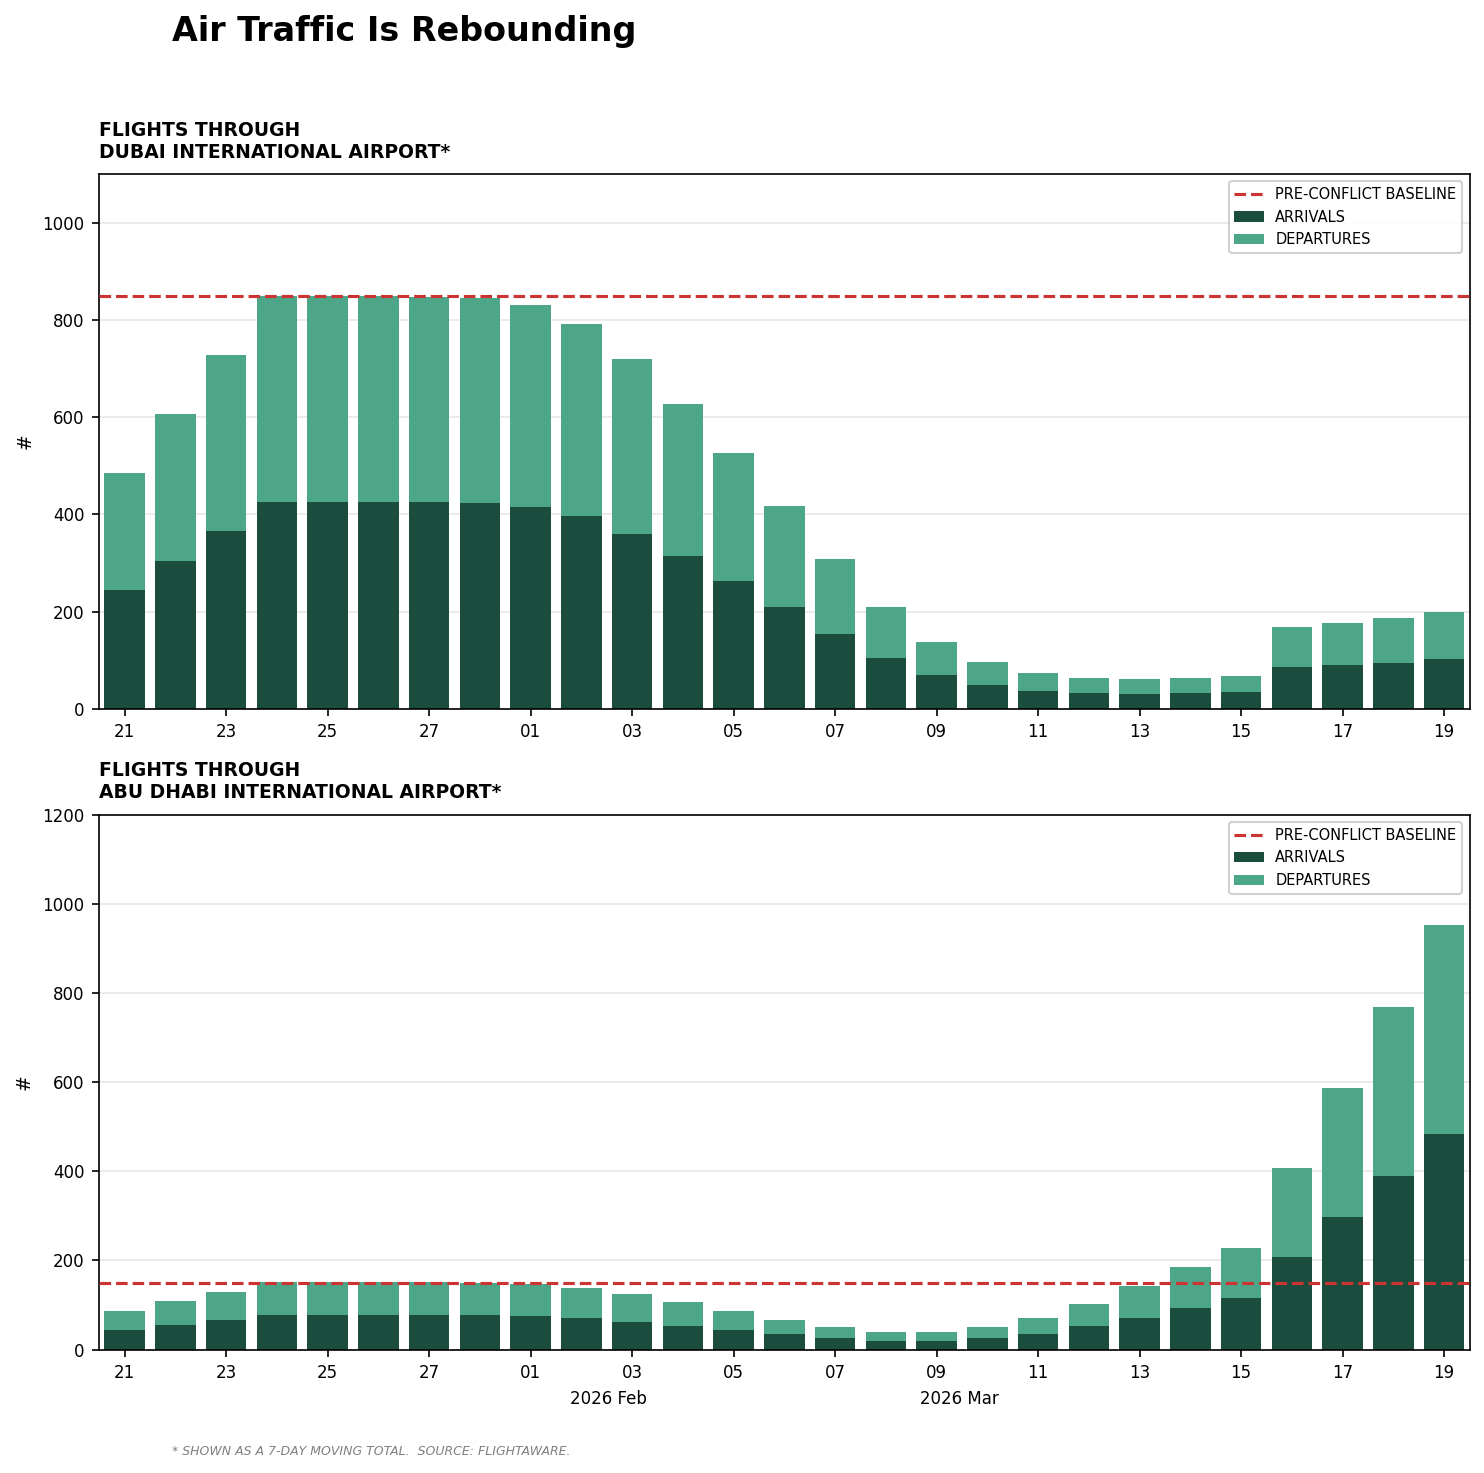
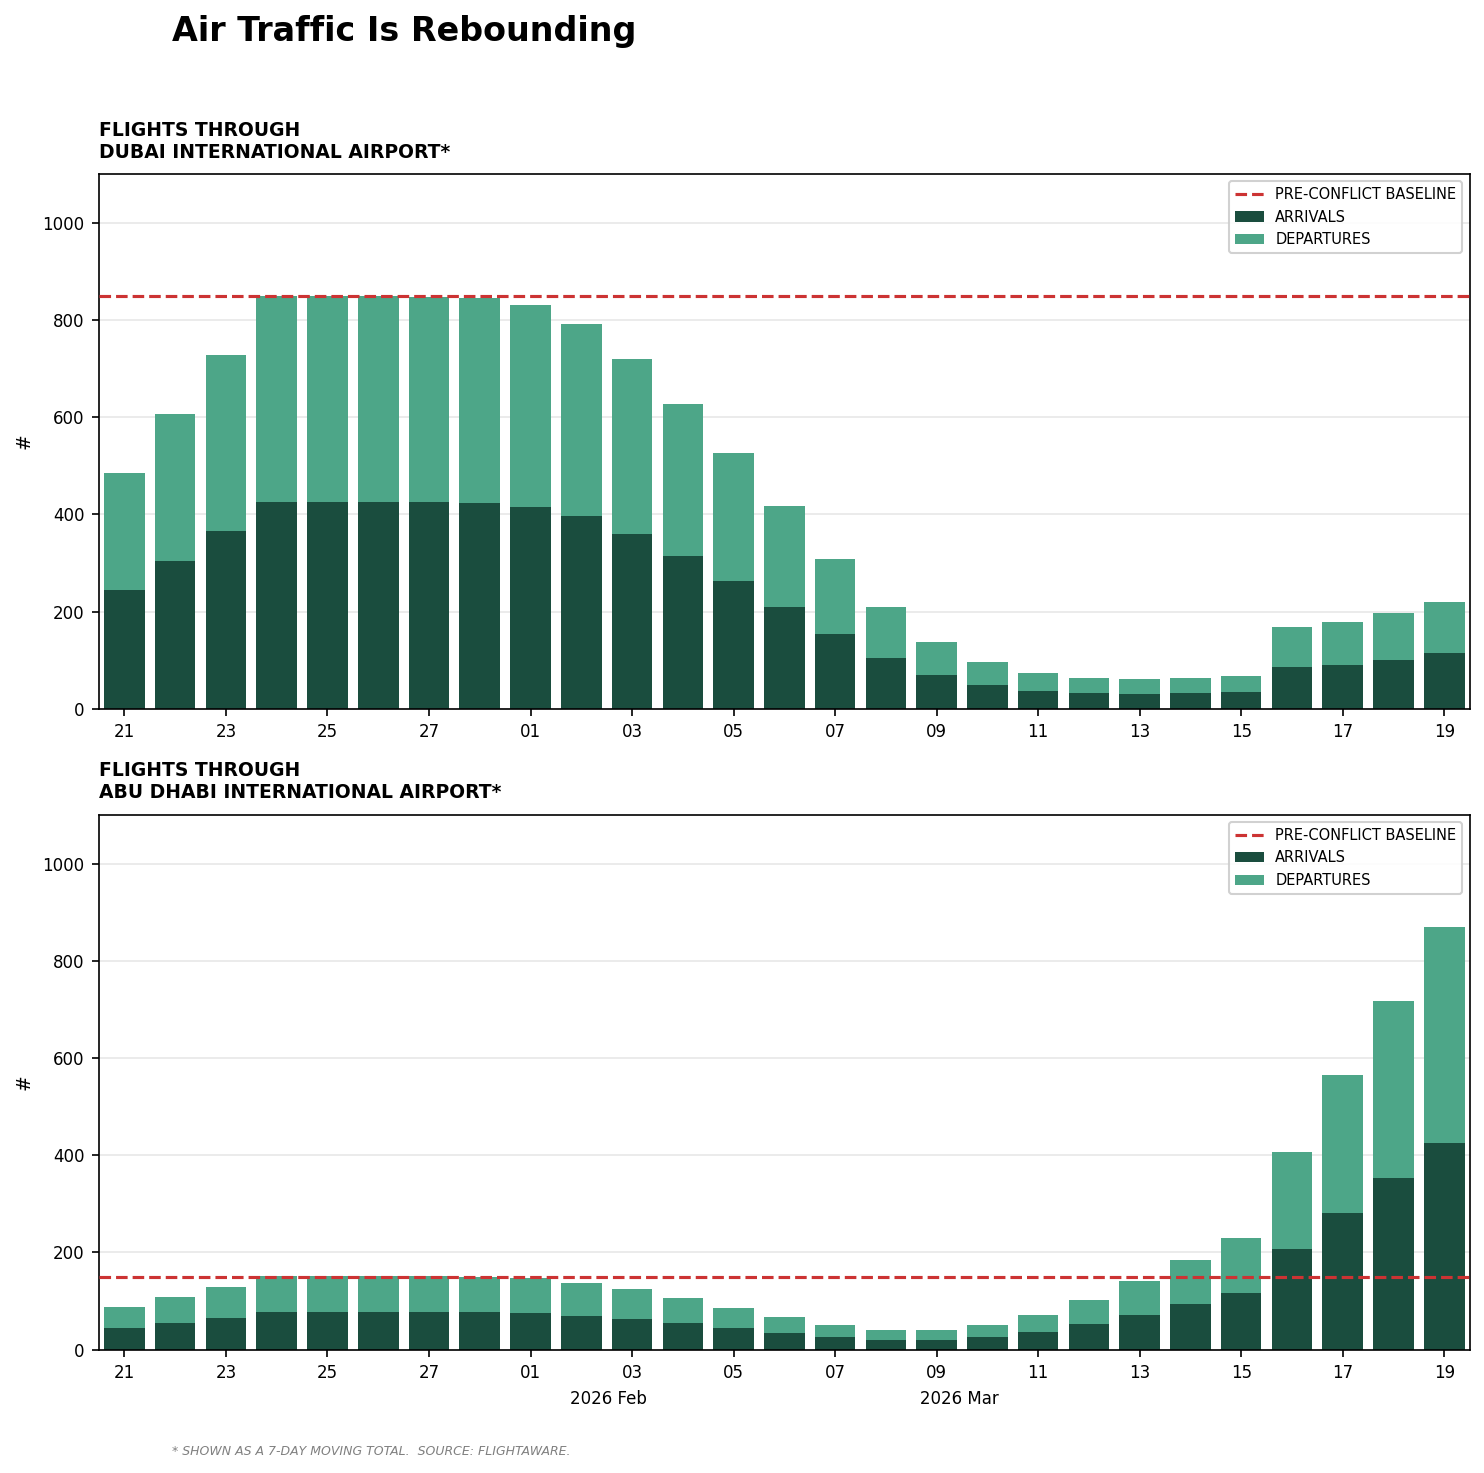
📊 Finalize tracker: remove GitHub Actions, backfill Mar 17-19, increase API delay
- Remove .github/workflows (Actions never ran, switching to Claude scheduled tasks)
- Backfill Mar 17-19 with API-confirmed OMAA data + calibrated OMDB estimates
- Increase API_DELAY to 20s for free tier rate limits
- Regenerate chart and merged 7d data

diff --git a/uae-air-traffic/uae_air_traffic.py b/uae-air-traffic/uae_air_traffic.py
@@ -24,7 +24,7 @@ BASE_URL        = "https://aeroapi.flightaware.com/aeroapi"
 AIRPORTS        = ["OMDB", "OMAA"]
 AIRPORT_NAMES   = {"OMDB": "Dubai (DXB)", "OMAA": "Abu Dhabi (AUH)"}
 DIRECTIONS      = ["arrivals", "departures"]
-API_DELAY       = 10  # generous spacing — this only runs once/day
+API_DELAY       = 20  # free tier needs ~20s between calls
 BASELINES       = {"OMDB": 850, "OMAA": 150}  # 7-day pre-conflict totals (API-calibrated)
 
 # Paths (relative to script location)
